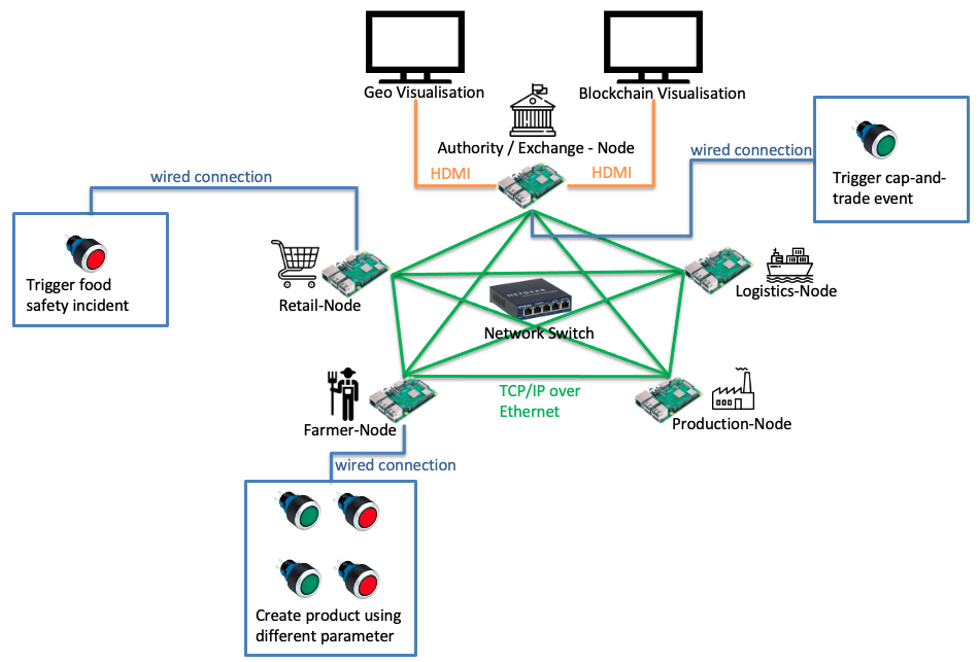
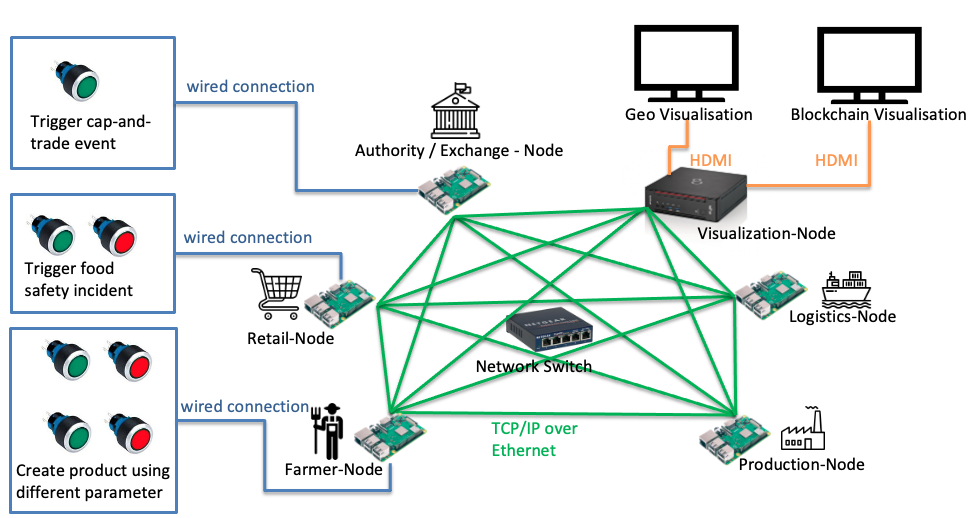
update architecture picture

Changed region(s): [[0.0, 0.0, 1.0, 1.0], [0.0, 0.0618, 0.1858, 0.0927]]

diff --git a/carbon-demonstrator/README.md b/carbon-demonstrator/README.md
@@ -1,12 +1,13 @@
 # Carbon Accounting Demonstrator 
 
-This document describes all artefacts for rebuilding the carbon accounting demonstrator of the LIONS research project. The demonstrators consist of five Raspberry Pi's and a pocket pc running as a fully decentralized cluster to operate a Hyperledger Fabric blockchain network.
-<a href="https://www.raspberrypi.com/products/raspberry-pi-4-model-b/"> <img src="./pictures/pi-plug-in.gif" width="320" height="230"/><img src="./pictures/carbon_visu.gif" width="800" height="400"/></br>
-<font size="1">Picture: https://www.raspberrypi.org/ </font>
+This document describes all artefacts for rebuilding the carbon accounting demonstrator of the LIONS research project. The demonstrators consist of five Raspberry Pi's and a pocket pc running as a fully decentralized cluster to operate a Hyperledger Fabric blockchain network. The following picture shows the simplified setup of the cluster.
+
+
+<a href="https://www.raspberrypi.com/products/raspberry-pi-4-model-b/"> <img src="./pictures/pi-plug-in.gif" width="320" height="230"/><img src="./pictures/cluster.png" width="650" height="350"/></br><font size="1">Picture: https://www.raspberrypi.org/ </font>
+
 
 1. [Bill of Materials (BOM)](#bill-of-materials)
-2. [Hardware Assembly](#hardware-assembly)
-3. [Network Setup](#network-setup)
+3. [Blockchain Network Setup](#blockchain-network-setup)
 4. [Visualization](#visualization)
 
 ### Bill of Materials (BOM)
@@ -14,18 +15,13 @@ The following BOM lists the essential components for building the carbon demonst
 
 | Material                                     | Ammount | Reference                                                                                                                                       |
 |----------------------------------------------|---------|-------------------------------------------------------------------------------------------------------------------------------------------------|
-| Raspberry Pi 4 B+ (min. 4GB RAM)             | 5       | <a href="https://www.raspberrypi.com/products/raspberry-pi-4-model-b/"> <img src="./pictures/pi.jpeg" width="180" height="100"/> </a>           |
-| Raspberry Pi Power Supply                    | 5       | <a href="https://www.raspberrypi.com/products/type-c-power-supply/"> <img src="./pictures/power.jpeg" width="180" height="100"/> </a>           |
-| Box + Cover (e.g. eurobox 22L; 40x60x12,5cm) | 1       | <a href="https://www.surplus-systems.de/produkte/euronormboxen/"> <img src="./pictures/box.png" width="180" height="100"/> </a>                 |
-| Network Switch 8xports                       | 1       | <a href="https://www.netgear.com/de/business/wired/switches/unmanaged/gs108/"> <img src="./pictures/switch.png" width="150" height="100"/> </a> |
+| Raspberry Pi 4 B+ (min. 4GB RAM)             | 5       | <a href="https://www.raspberrypi.com/products/raspberry-pi-4-model-b/"> <img src="./pictures/pi.jpeg" width="80" height="50"/> </a>           |
+| Raspberry Pi Power Supply                    | 5       | <a href="https://www.raspberrypi.com/products/type-c-power-supply/"> <img src="./pictures/power.jpeg" width="80" height="50"/> </a>           |
+| Box + Cover (e.g. eurobox 22L; 40x60x12,5cm) | 1       | <a href="https://www.surplus-systems.de/produkte/euronormboxen/"> <img src="./pictures/box.png" width="80" height="50"/> </a>                 |
+| Network Switch 8xports                       | 1       | <a href="https://www.netgear.com/de/business/wired/switches/unmanaged/gs108/"> <img src="./pictures/switch.png" width="80" height="50"/> </a> |
 | Pocket PC                                    | 1       | e.g. Fujitsu Esprimo Q556/2                                                                                                                     |
 
-
-### Hardware Assembly 
-The following picture shows the simplified setup of the cluster. The pocket pc is not depcited, because it does not take an active role in the network and only serves the visualizations.
-<img src="./pictures/cluster.png" width="800" height="550"/>
-
-### Network Setup
+### Blockchain Network Setup
 The usage of [minifabric](https://github.com/hyperledger-labs/minifabric) allows very straight processes for structing the network and the consortium. The following example depicts the stepwise process of onboarding a new organization to the consortium.</br>
 <img src="./pictures/nodes.png" width="800" height="400"/></br>
 | Step | Description |
